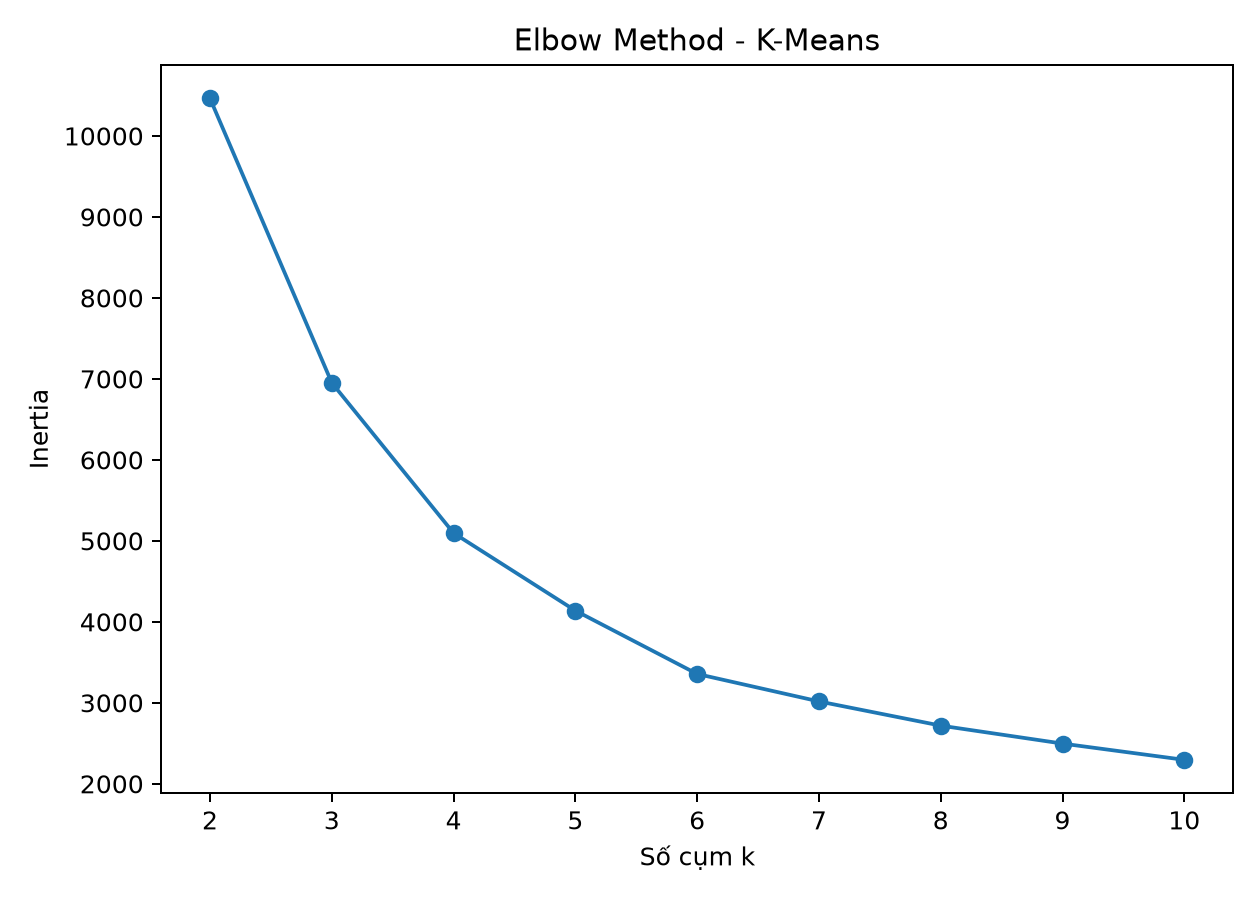
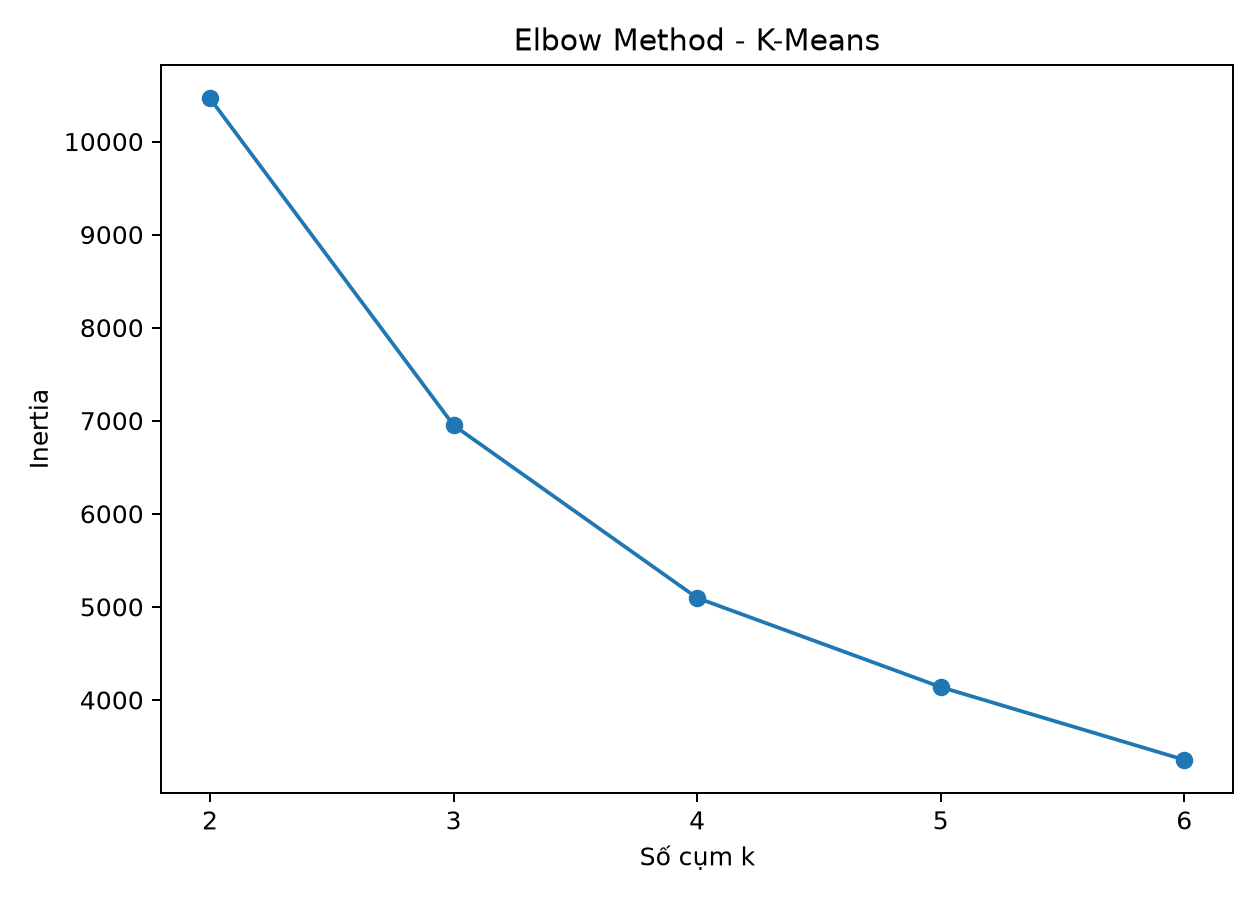
Limit clustering candidate scan to k 2 through 6

diff --git a/src/clustering.py b/src/clustering.py
@@ -47,7 +47,7 @@ def load_data(path: str | Path) -> pd.DataFrame:
     return data
 
 
-def evaluate(data: pd.DataFrame, k_values=range(2, 11), random_state=42):
+def evaluate(data: pd.DataFrame, k_values=range(2, 7), random_state=42):
     X = StandardScaler().fit_transform(data[FEATURES])
     rows = []
     for k in k_values:

diff --git a/README.md b/README.md
@@ -75,7 +75,7 @@ data_loader -> preprocessor -> classification / clustering -> evaluator
 
 ## Chay lai clustering tren nhanh test_4
 
-Nhanh nay dung mot bo input rieng va thong nhat quy trinh: quet `k = 2..10`
+Nhanh nay dung mot bo input rieng va thong nhat quy trinh: quet `k = 2..6`
 cho K-Means va Hierarchical, sau do phan tich cuoi voi `k = 4`. File input
 `data/working_raw_7043.csv` co 7.043 dong va chua bi scale; StandardScaler
 duoc fit trong `src/clustering.py`.
